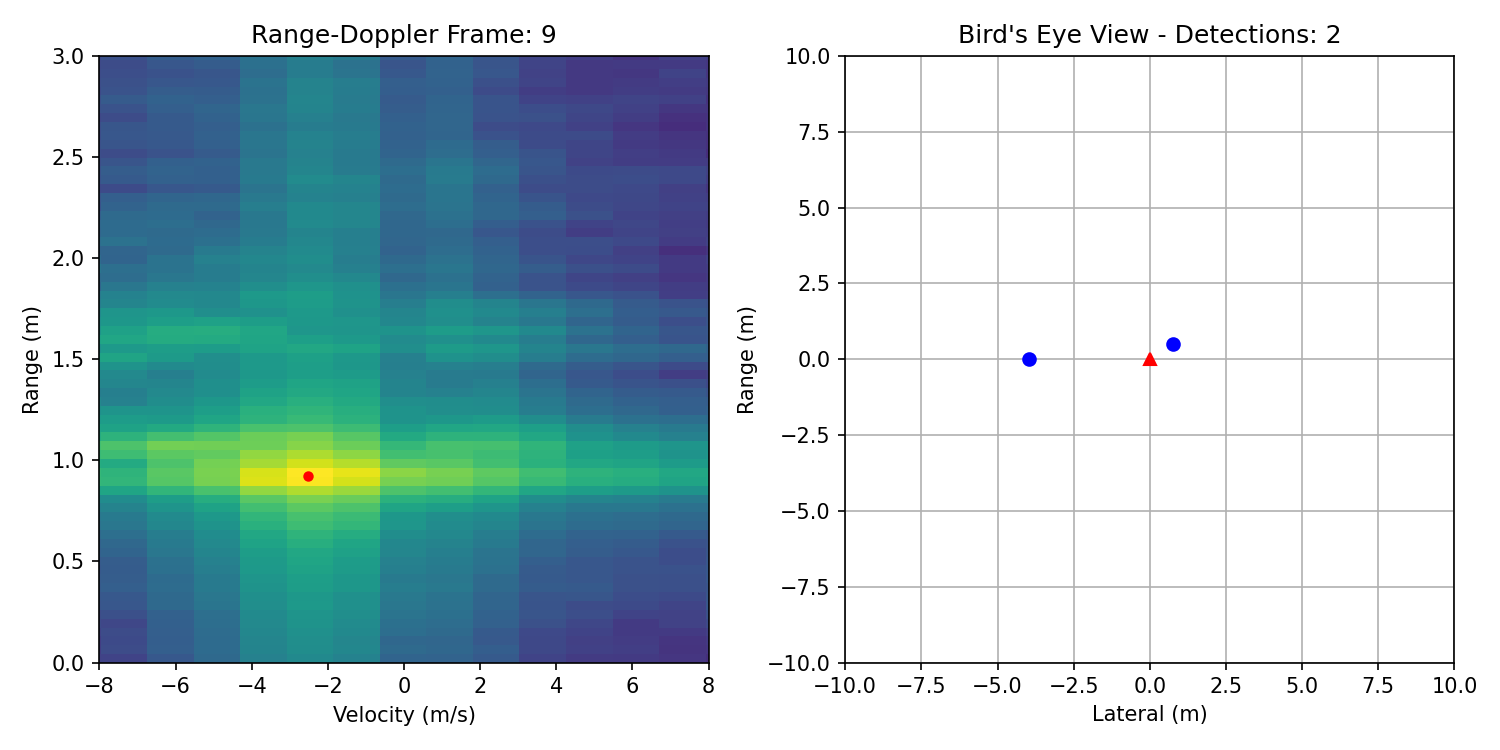
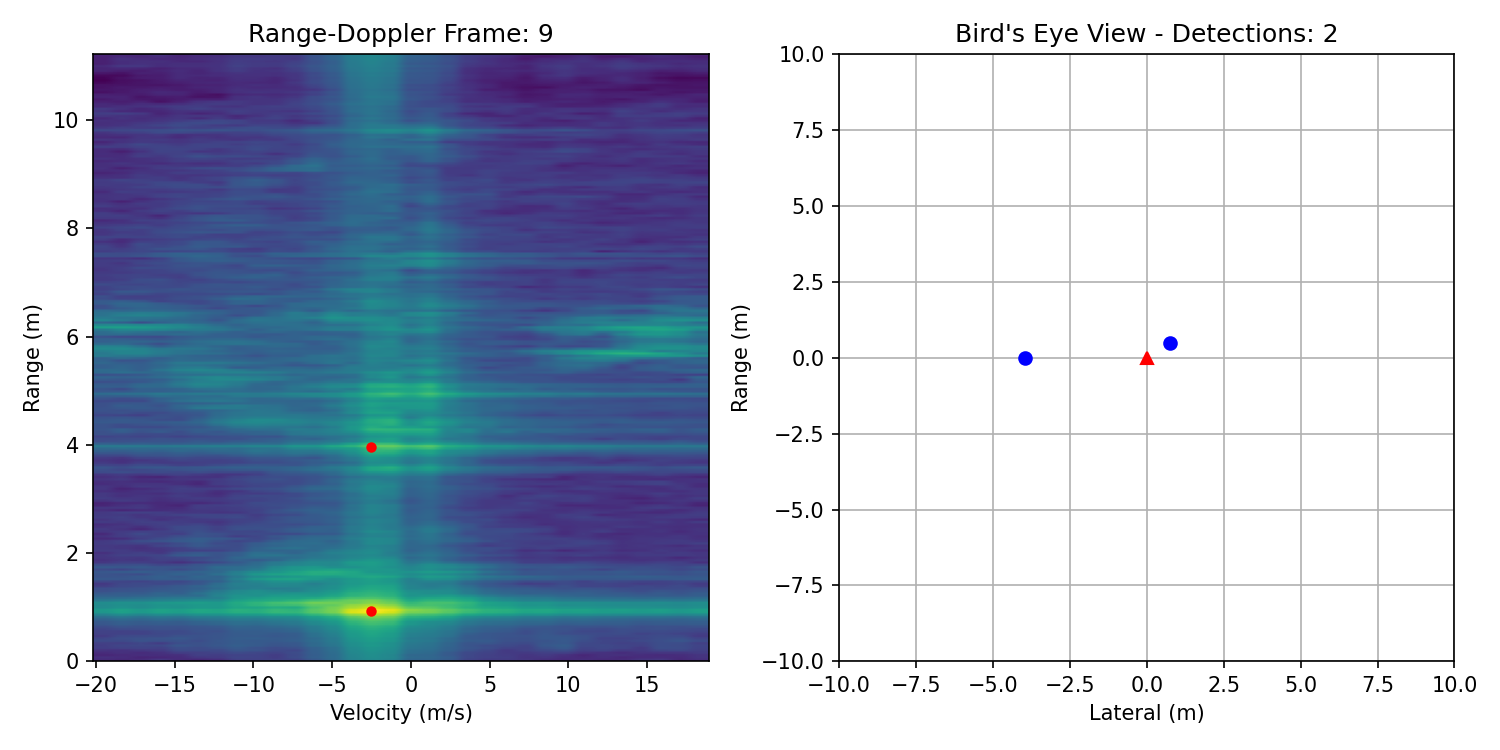
added back the display

diff --git a/acd_simulation/bridge.py b/acd_simulation/bridge.py
@@ -204,8 +204,8 @@ def run_radar_simulation():
                 ]
             )
             
-            ax_rd.set_xlim(-8, 8)   # x-axis = velocity
-            ax_rd.set_ylim(0, 3)    # y-axis = range
+            # ax_rd.set_xlim(-8, 8)   # x-axis = velocity
+            # ax_rd.set_ylim(0, 3)    # y-axis = range
             ax_rd.set_title(f"Range-Doppler Frame: {frame_idx}")
             ax_rd.set_xlabel("Velocity (m/s)")
             ax_rd.set_ylabel("Range (m)")
@@ -263,27 +263,11 @@ def run_radar_simulation():
                 
                 if 0 < ang_idx < radar.num_angle_bins - 1:
                     # phase-based intrepolation
-                    p_l = np.log(a_l + EPSILON)
-                    p_0 = np.log(a0 + EPSILON)
-                    p_r = np.log(a_r + EPSILON)
-
-                    den = p_l - 2*p_0 + p_r
-
-                    if abs(den) < 1e-12:
-                        frac_offset = 0.0
-                    else:
-                        frac_offset = 0.5 * (p_l - p_r) / den
-
-                    frac_offset = np.clip(frac_offset, -0.5, 0.5)
-
-                    interp_r = radar.range_axis[r_idx] + frac_offset * (radar.range_axis[1] - radar.range_axis[0])
-                    
-                    # log-based intrepolation
                     # p_l = np.log(a_l + EPSILON)
                     # p_0 = np.log(a0 + EPSILON)
                     # p_r = np.log(a_r + EPSILON)
 
-                    # den = (p_l - 2*p_0 + p_r)
+                    # den = p_l - 2*p_0 + p_r
 
                     # if abs(den) < 1e-12:
                     #     frac_offset = 0.0
@@ -291,6 +275,22 @@ def run_radar_simulation():
                     #     frac_offset = 0.5 * (p_l - p_r) / den
 
                     # frac_offset = np.clip(frac_offset, -0.5, 0.5)
+
+                    # interp_r = radar.range_axis[r_idx] + frac_offset * (radar.range_axis[1] - radar.range_axis[0])
+                    
+                    # log-based intrepolation
+                    p_l = np.log(a_l + EPSILON)
+                    p_0 = np.log(a0 + EPSILON)
+                    p_r = np.log(a_r + EPSILON)
+
+                    den = (p_l - 2*p_0 + p_r)
+
+                    if abs(den) < 1e-12:
+                        frac_offset = 0.0
+                    else:
+                        frac_offset = 0.5 * (p_l - p_r) / den
+
+                    frac_offset = np.clip(frac_offset, -0.5, 0.5)
                     
                     # linear-based intrepolation
                     # frac_offset = (a_l - a_r) / (2 * (a_l + a_r - 2 * a0 + EPSILON))
@@ -306,8 +306,11 @@ def run_radar_simulation():
                 f.write(f"  > R:{interp_r:6.3f}m | V:{interp_v:6.3f}m/s | A:{m_aoa_deg:6.2f}deg | X:{mx:6.3f} | Y:{my:6.3f}\n")
 
             plt.tight_layout()
+            plt.pause(0.1)
             frame_path = os.path.join(frame_dir, f"frame_{frame_idx:04d}.png")
             fig.savefig(frame_path, dpi=150)
+        plt.ioff()
+        plt.show()
 
 if __name__ == "__main__":
     try:

diff --git a/acd_simulation/stream_data_cs_team.py b/acd_simulation/stream_data_cs_team.py
@@ -14,7 +14,7 @@ import os
 # FILENAME = "../data/adc_data_new_6min.bin"
 # FILENAME = "C:/Users/potat/Downloads/Senior Capstone/radar_camera_sdk/data/adc_data_Raw_1121.bin"
 FILENAME = "C:/Users/potat/Downloads/Senior Capstone/radar_camera_sdk/data/combo/stream1R.bin"
-# FILENAME = "C:/Users/potat/Downloads/Senior Capstone/radar_camera_sdk/data/combo/stream2R.bin"
+# FILENAME = "C:/Users/potat/Downloads/Senior Capstone/radar_camera_sdk/data/acrylic_with_hole/stream1R.bin"
 # FILENAME = "../data/adc_data_Raw_1.bin" # uses THE_REAL_CONFIG
 
 RESHAPE_RAW = True;
